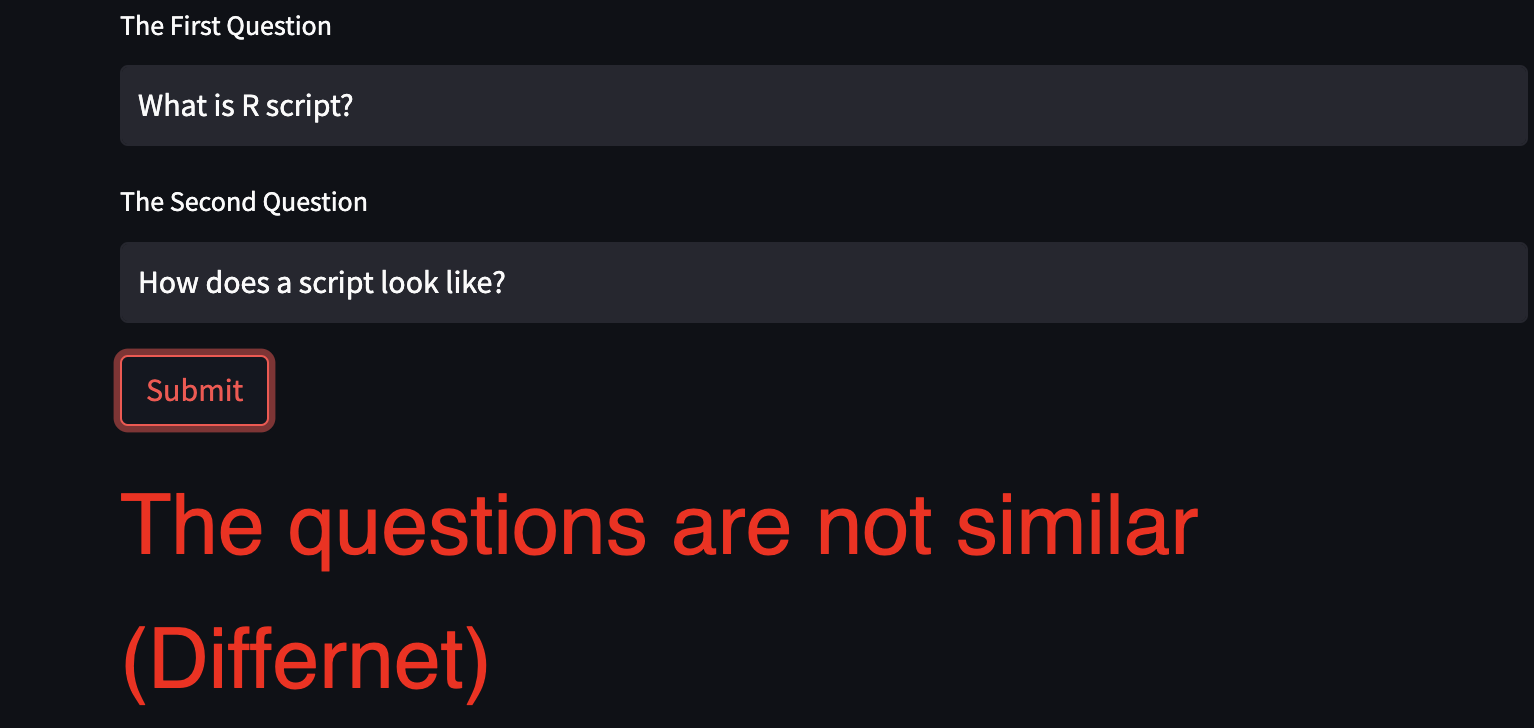
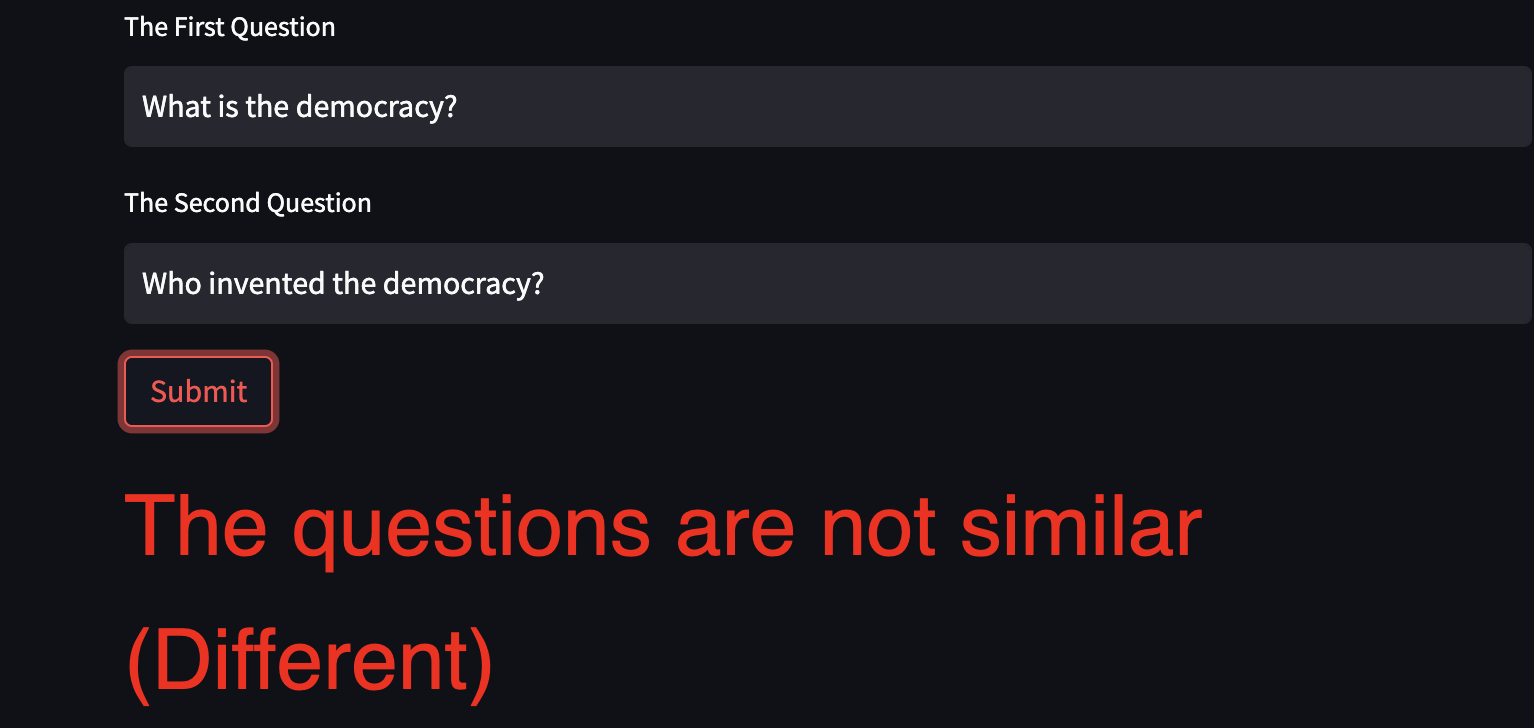
resizing the image

diff --git a/code/app.py b/code/app.py
@@ -47,7 +47,7 @@ if q1 and q2 and button_check:
     pred /= 2
     pr = pred.ravel()[0]
     similar_title = '<p style="font-family:sans-serif; color:Green; font-size: 42px;">The questions are similar</p>'
-    nonsimilar_title = '<p style="font-family:sans-serif; color:Red; font-size: 42px;">The questions are not similar (Differenet)</p>'
+    nonsimilar_title = '<p style="font-family:sans-serif; color:Red; font-size: 42px;">The questions are not similar (Different)</p>'
 
     if pr > 0.1:
         st.markdown(similar_title, unsafe_allow_html=True)
